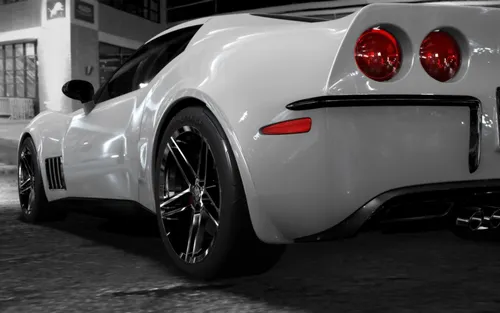
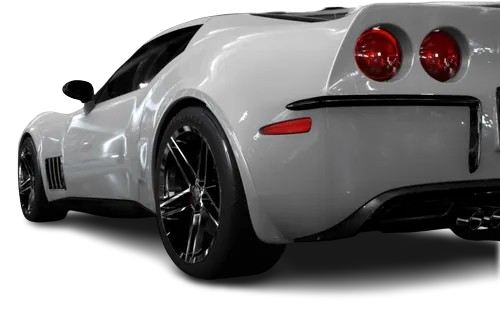
home page done

diff --git a/cars/src/components/Home.jsx b/cars/src/components/Home.jsx
@@ -1,81 +1,102 @@
 import React from "react";
 import Navbar from "./Navbar";
+import { Link } from "react-router-dom";
+
+import car3 from "./../assets/car3.png";
 import car4 from "./../assets/car4.png";
+import car5 from "./../assets/car5.png";
+import car6 from "./../assets/car6.png";
+import car7 from "./../assets/car7.png";
+import car8 from "./../assets/car8.png";
+
 import sedan from "./../assets/sedan.png";
 import suv from "./../assets/suv.png";
 import luxury from "./../assets/luxury.png";
 import mini from "./../assets/mini.png";
 
-import { Link } from "react-router-dom"
-
-
-
+import buyer from "./../assets/buyer.png";
+import seller from "./../assets/seller.png";
 
 const Home = () => {
   return (
     <>
       <Navbar user={JSON.parse(localStorage.getItem("user"))} />
 
-      {/* HERO SECTION */}
       <section className="relative min-h-screen bg-gradient-to-br from-black via-gray-900 to-black overflow-hidden text-white">
-        
-        {/* Floating Circles */}
-        <div className="absolute top-20 left-20 w-40 h-40 bg-gray-700/30 rounded-full blur-2xl"></div>
-        <div className="absolute top-60 right-40 w-56 h-56 bg-gray-600/20 rounded-full blur-3xl"></div>
-        <div className="absolute bottom-40 left-1/3 w-32 h-32 bg-gray-500/20 rounded-full blur-2xl"></div>
 
-        {/* Content */}
-        <div className="relative z-10 max-w-7xl mx-auto px-8 pt-28 grid grid-cols-1 md:grid-cols-2 items-center gap-10">
-          
-          {/* Left Content */}
-          <div>
-            <h1 className="text-5xl md:text-6xl font-extrabold leading-tight">
-              Find Your <br />
-              <span className="text-blue-500">Dream Car</span>
-            </h1>
+  {/* Floating Effects */}
+  <div className="absolute top-20 left-20 w-40 h-40 bg-blue-500/20 rounded-full blur-2xl"></div>
+  <div className="absolute top-60 right-40 w-56 h-56 bg-purple-500/20 rounded-full blur-3xl"></div>
 
-            <p className="mt-6 text-gray-300 max-w-md">
-              Lorem ipsum has been the industry’s standard dummy text ever since
-              the 1500s.
-            </p>
+  <div className="relative z-10 max-w-7xl mx-auto px-8 pt-28 grid grid-cols-1 md:grid-cols-2 gap-14 items-center">
 
-            <button className="mt-8 px-6 py-3 bg-blue-600 hover:bg-blue-700 transition rounded-lg font-semibold shadow-lg">
-              Predict Price of Car
-            </button>
-          </div>
+    {/* LEFT CONTENT */}
+    <div className="space-y-8">
 
-          {/* Right Image */}
-          <div className="relative flex justify-center md:justify-end">
-  
-  
-  
-  {/* Glow behind car */}
-  <div className="absolute -inset-20 bg-blue-600/20 blur-[120px] rounded-full"></div>
+      <h1 className="text-5xl md:text-6xl font-extrabold leading-tight">
+        Find Your <br />
+        <span className="text-blue-500">Dream Car</span>
+      </h1>
 
-      {/* Car Image */}
+      <p className="text-gray-300 max-w-md">
+        AI-powered car marketplace to buy, sell, and predict car prices with confidence.
+      </p>
+
+      {/* Feature Pills */}
+      <div className="flex flex-wrap gap-3">
+        {["AI Price Prediction", "Verified Listings", "Secure Payments"].map(
+          (item, i) => (
+            <span
+              key={i}
+              className="px-4 py-1 text-sm rounded-full bg-white/10 backdrop-blur border border-white/10"
+            >
+              ✔ {item}
+            </span>
+          )
+        )}
+      </div>
+
+      {/* Buttons */}
+      <div className="flex gap-4">
+        <button className="px-6 py-3 bg-blue-600 hover:bg-blue-700 rounded-lg font-semibold shadow-lg">
+          Predict Price
+        </button>
+        <button className="px-6 py-3 border border-white/30 rounded-lg hover:bg-white/10 transition">
+          Browse Cars
+        </button>
+      </div>
+
+      {/* Social Proof */}
+      <div className="flex items-center gap-6 text-sm text-gray-400">
+        <div>⭐ 4.9 Rating</div>
+        <div>🚗 10,000+ Cars Listed</div>
+        <div>😊 5,000+ Happy Users</div>
+      </div>
+    </div>
+
+    {/* RIGHT IMAGE */}
+    <div className="relative flex justify-center md:justify-end">
+      <div className="absolute -inset-24 bg-blue-600/20 blur-[120px] rounded-full"></div>
+
       <img
         src={car4}
         alt="Car"
-        className="h-200px w-200px drop-shadow-[0_60px_80px_rgba(0,0,0,0.85)] hover:scale-105 transition-transform duration-500"
+        className="h-[260px] md:h-[320px] drop-shadow-[0_60px_80px_rgba(0,0,0,0.85)] hover:scale-105 transition duration-500"
       />
     </div>
 
+  </div>
+</section>
 
-        </div>
-      </section>
-      {/* END OF HERO SECTION */}
-      {/* cars SECTION */}
 
-  
-
-    <section className="bg-gradient-to-br from-black via-gray-900 to-black py-16">
+      <section className="bg-gradient-to-br from-black via-gray-900 to-black py-16">
       <div className="max-w-6xl mx-auto px-6">
         
         <div className="grid grid-cols-2 sm:grid-cols-4 gap-6 text-center">
           
           {/* Sedan */}
           <Link
-            to="/buy?type=sedan"
+            to="/buy"
             className="group bg-white rounded-xl p-5 flex flex-col items-center justify-center hover:scale-105 transition"
           >
             <img src={sedan} alt="Sedan" className="w-14 mb-3" />
@@ -84,7 +105,7 @@ const Home = () => {
 
           {/* SUV */}
           <Link
-            to="/buy?type=suv"
+            to="/buy"
             className="group bg-white rounded-xl p-5 flex flex-col items-center justify-center hover:scale-105 transition"
           >
             <img src={suv} alt="SUV" className="w-14 mb-3" />
@@ -93,7 +114,7 @@ const Home = () => {
 
           {/* Luxury */}
           <Link
-            to="/buy?type=luxury"
+            to="/buy"
             className="group bg-white rounded-xl p-5 flex flex-col items-center justify-center hover:scale-105 transition"
           >
             <img src={luxury} alt="Luxury" className="w-14 mb-3" />
@@ -102,50 +123,122 @@ const Home = () => {
 
           {/* Mini */}
           <Link
-            to="/buy?type=mini"
+            to="/buy"
             className="group bg-white rounded-xl p-5 flex flex-col items-center justify-center hover:scale-105 transition"
           >
             <img src={mini} alt="Mini" className="w-14 mb-3" />
             <p className="text-sm font-semibold text-gray-800">Mini</p>
           </Link>
+</div>
+      </div>
+          <div className="bg-gradient-to-b from-[#0b0f1a] to-[#020617] py-20">
 
+  {/* Section Heading */}
+  
+  <h1 className="text-4xl md:text-6xl font-extrabold text-center text-white mb-16 tracking-wide">
+    TOP SELLING
+  </h1>
+
+  {/* Featured Car */}
+  <div className="max-w-7xl mx-auto mb-20 px-6">
+    <div className="relative grid md:grid-cols-2 items-center rounded-3xl overflow-hidden bg-gradient-to-r from-[#111827] to-[#020617] shadow-2xl">
+
+      {/* Text */}
+      <div className="p-10 space-y-6">
+        <span className="uppercase tracking-widest text-blue-500 text-sm">
+          Featured
+        </span>
+        <h2 className="text-3xl md:text-4xl font-bold text-white">
+          Mercedes-Benz E-Class
+        </h2>
+        <p className="text-gray-400 max-w-md">
+          Experience luxury, performance, and cutting-edge technology in one premium sedan.
+        </p>
+        <Link to="/buy">
+        <button className="px-8 py-3 bg-blue-600 text-white rounded-full hover:bg-blue-700 transition duration-300 shadow-lg">
+          View Details
+        </button>
+        </Link>
+      </div>
+
+      {/* Image */}
+      <div className="overflow-hidden">
+        <img
+          src={car8}
+          alt="Mercedes-Benz E-Class"
+          className="w-full h-full object-cover hover:scale-105 transition duration-500"
+        />
+      </div>
+    </div>
+  </div>
+
+  {/* Cards Grid */}
+  <div className="max-w-7xl mx-auto px-6 grid grid-cols-1 sm:grid-cols-2 md:grid-cols-4 gap-8">
+
+    {/* Card */}
+    {[ 
+      { img: car7, name: "Tata Punch" },
+      { img: car6, name: "Honda City" },
+      { img: car5, name: "Maruti Swift" },
+      { img: car3, name: "More Cars" }
+    ].map((car, index) => (
+      <div
+        key={index}
+        className="group bg-[#0f172a]/80 backdrop-blur rounded-2xl overflow-hidden shadow-lg hover:shadow-2xl transition duration-300"
+      >
+        <div className="overflow-hidden">
+          <img
+            src={car.img}
+            alt={car.name}
+            className="h-44 w-full object-cover group-hover:scale-110 transition duration-500"
+          />
+        </div>
+
+        <div className="p-5 space-y-3">
+          <h3 className="text-white font-semibold text-lg">
+            {car.name}
+          </h3>
+          <Link to= "/buy">
+          <button  className="text-blue-500 text-sm font-medium hover:underline">
+            View More →
+          </button>
+          </Link>
         </div>
       </div>
+    ))}
 
-      <div>
-        <h1 className="text-5xl md:text-6xl font-extrabold leading-tight text-center mt-10 text-white">TOP SELLING</h1>
+  </div>
+</div>
 
-
-      </div>
     </section>
 
-    {/*customer and buyer section */}
+      {/* OUR SERVICES */}
+      <section className="bg-gradient-to-br from-black via-gray-900 to-black py-24 px-6">
+        <h1 className="text-4xl md:text-6xl font-extrabold text-center text-white mb-20">
+          OUR SERVICES
+        </h1>
 
-    <section className="bg-gradient-to-br from-black via-gray-900 to-black py-16">
-      <h1 className="text-5xl md:text-6xl font-extrabold leading-tight text-center mt-10 text-white">OUR SERVICES</h1>
-      <div>
-        <div>
-          <h1>Happy Buyers</h1>
-          <p>Lorem ipsum dolor sit amet consectetur adipisicing elit. Facilis nam dolore modi, molestias natus magnam tempora. Laboriosam doloremque, perspiciatis quas reprehenderit mollitia accusantium eos tenetur excepturi voluptates iste, ut fuga?</p>
-        </div>
-        <div>
-          {/*Image lagayio */}
-        </div>
-      </div>
+        <div className="max-w-7xl mx-auto grid md:grid-cols-2 gap-8">
+          <div className="bg-[#0f172a] rounded-3xl p-10 text-white">
+            <h2 className="text-3xl font-bold mb-4">Happy Buyers</h2>
+            <p className="text-gray-400">
+              Industry standard dummy text ever since.
+            </p>
+          </div>
 
-      <div>
-        <div>
-          <h1>Happy Customers</h1>
-          <p>Lorem ipsum dolor sit amet consectetur adipisicing elit. Facilis nam dolore modi, molestias natus magnam tempora. Laboriosam doloremque, perspiciatis quas reprehenderit mollitia accusantium eos tenetur excepturi voluptates iste, ut fuga?</p>
-        </div>
-        <div>
-          {/*Image lagayio */}
-        </div>
-      </div>
+          <img src={buyer} alt="buyers" className="rounded-3xl" />
+          <img src={seller} alt="sellers" className="rounded-3xl" />
 
+          <div className="bg-[#0f172a] rounded-3xl p-10 text-white">
+            <h2 className="text-3xl font-bold mb-4">Happy Customers</h2>
+            <p className="text-gray-400">
+              Industry standard dummy text ever since.
+            </p>
+          </div>
+        </div>
+      </section>
 
-    </section>
-    {/*fotter section */}
+      {/*fotter section */}
     <footer className="bg-gradient-to-br from-black via-gray-900 to-black text-gray-300">
   <div className="max-w-7xl mx-auto px-6 py-12 grid grid-cols-1 md:grid-cols-3 gap-8">
     
@@ -197,9 +290,6 @@ const Home = () => {
     © {new Date().getFullYear()} CarLo. Built by Nipun.
   </div>
 </footer>
-
-
-
     </>
   );
 };
